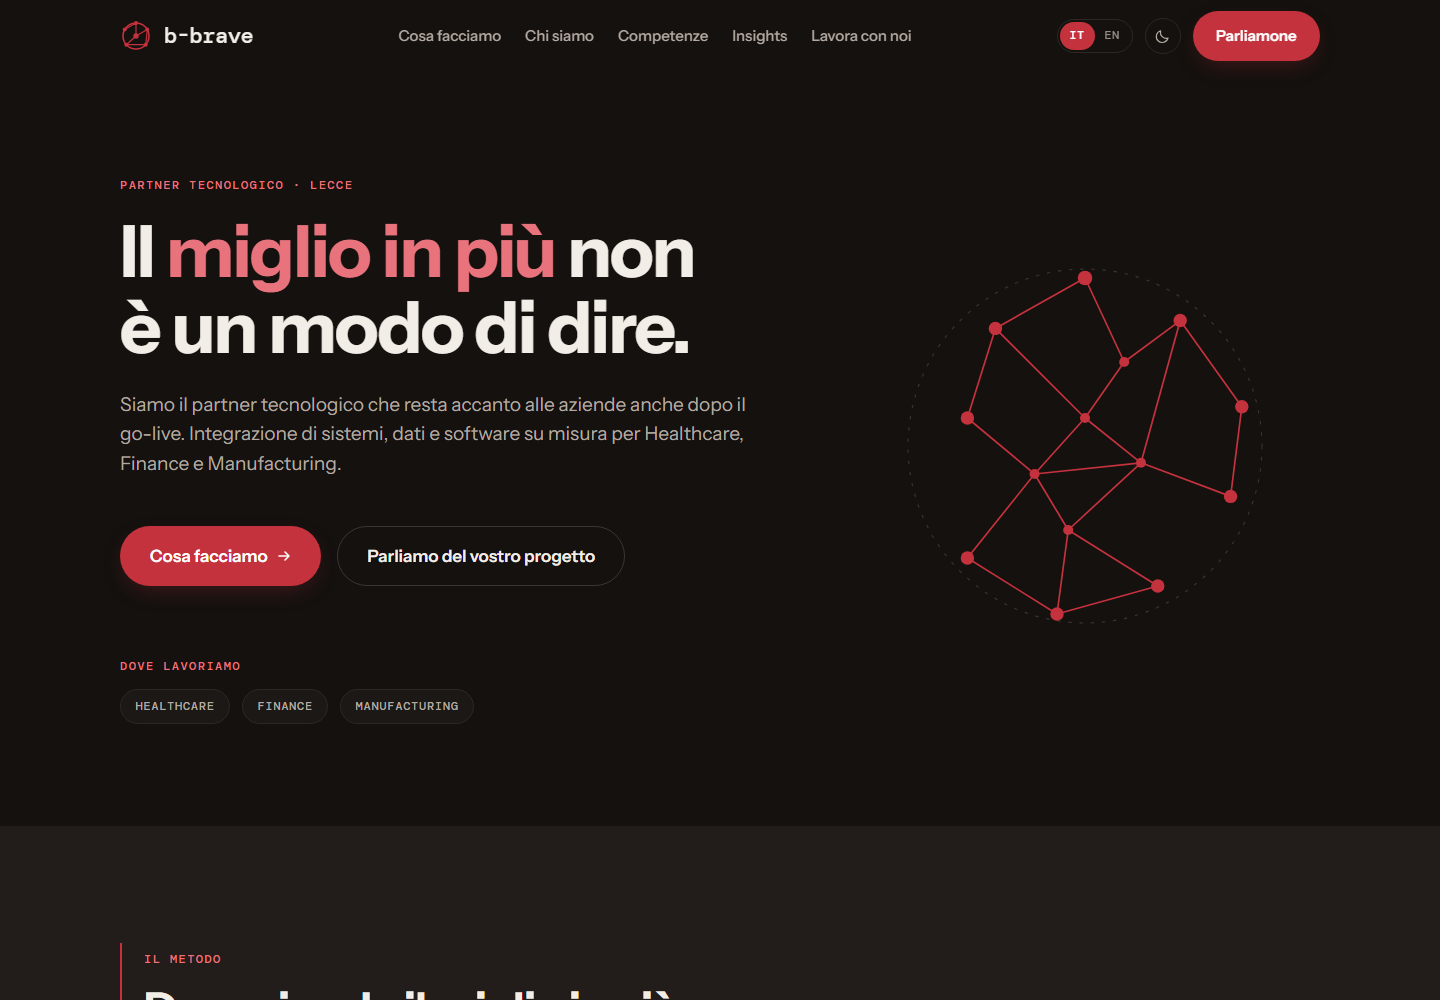
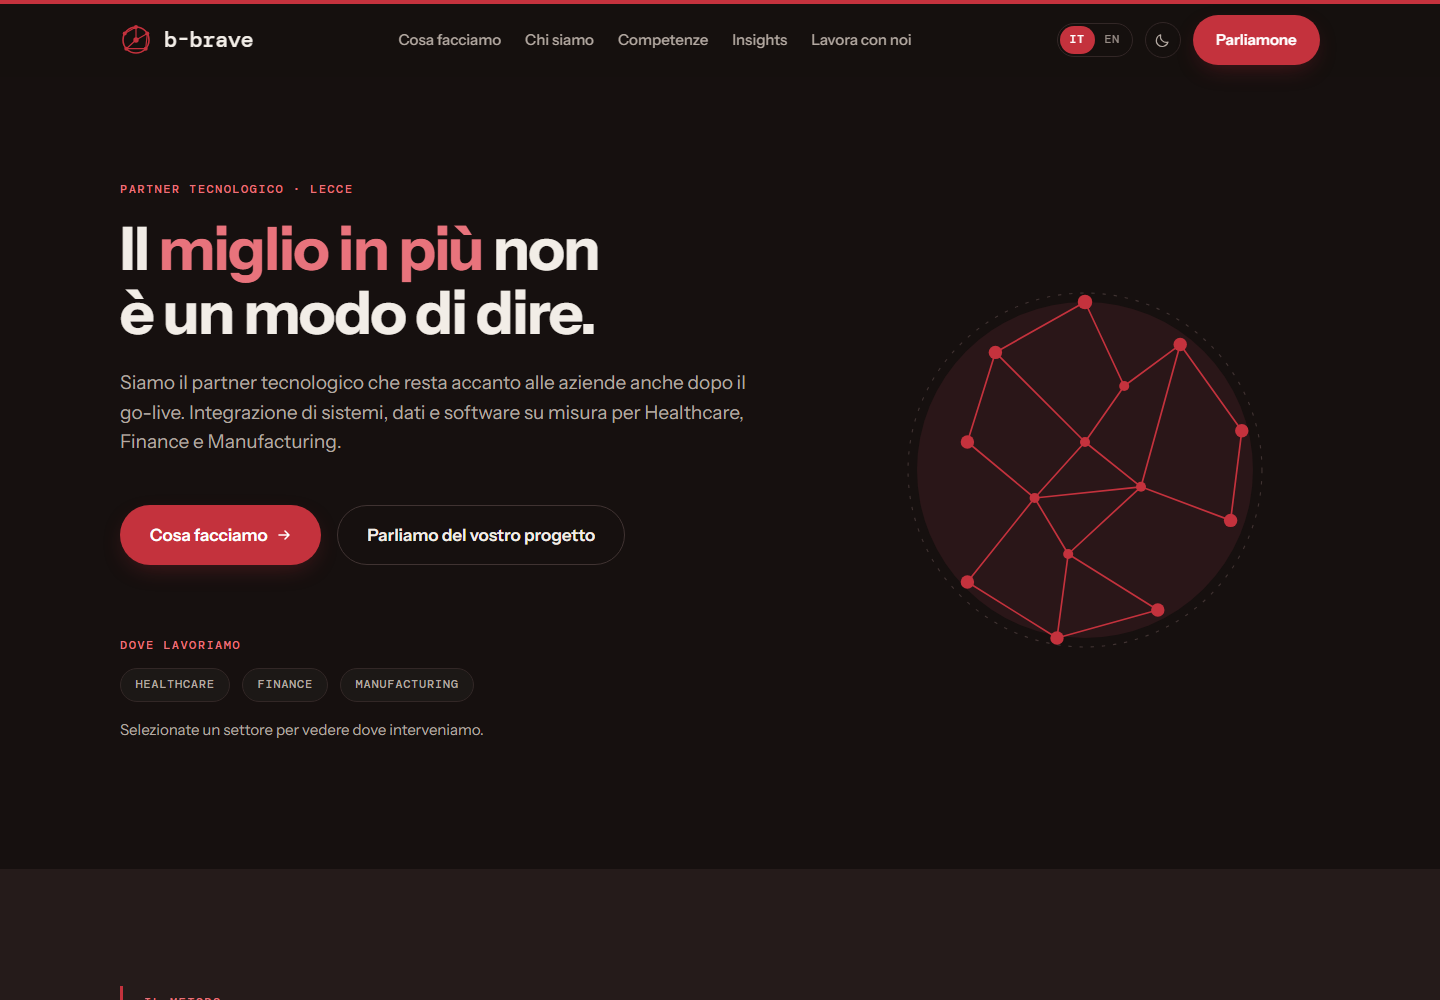
docs: refresh the screenshots and the notes on colour and navigation

diff --git a/README.md b/README.md
@@ -38,7 +38,7 @@ Siete un partner tecnologico che parla con direzioni aziendali di sanità, finan
 
 Tre scelte che tengono insieme il resto:
 
-**Il rosso si usa poco, quindi si vede.** In tutto il sito c'è una sola fascia rossa piena, sulla home. Per il resto il rosso sta sui pulsanti, sulle etichette piccole e su qualche parola chiave. Quando un colore è ovunque smette di significare qualcosa.
+**Il rosso apre e chiude.** Un filetto rosso in cima a ogni pagina, una fascia piena che la chiude, e in mezzo il rosso su pulsanti, etichette, numeri e qualche parola chiave. Anche i fondi chiari sono virati leggermente verso il rosso, invece di restare grigi. Quello che resta fuori sono i blocchi di testo lunghi: se il colore è ovunque smette di significare qualcosa.
 
 **Il vostro marchio è diventato il filo conduttore.** Ho ridisegnato la sfera di nodi del logo in vettoriale, e da quella è nata l'immagine dell'hero: una rete che si disegna al caricamento. Se passi il mouse su Healthcare, Finance o Manufacturing, la rete accende solo il pezzo che riguarda quel settore.
 
@@ -72,7 +72,8 @@ Qualche scelta che vale la pena raccontare:
 - **I font sono dentro il progetto**, non caricati da Google. Oltre a essere più veloce, evita di mandare l'indirizzo IP dei visitatori a un server esterno — che in Italia è un tema di privacy reale.
 - **Zero servizi di terze parti**, quindi zero cookie: non serve nemmeno il banner del consenso.
 - **La mappa dei contatti è disegnata da me**, non è un riquadro di Google Maps. Stesso risultato per chi guarda, senza chiamate esterne. Il link "Apri in Maps" c'è comunque.
-- **Tutto è usabile da tastiera** e con lettore di schermo: link di salto al contenuto, focus sempre visibile, menu mobile che non lascia scappare il cursore. Il contrasto dei testi rispetta le linee guida WCAG AA (il rosso su bianco è 5.4:1; sul fondo scuro uso una tonalità più chiara, altrimenti non passerebbe).
+- **Su telefono il menu non si nasconde dietro un pulsante**: le voci stanno in orizzontale sotto il logo, sempre visibili. Un sito di sette pagine non ha bisogno di un pannello che si apre, e un pannello che si apre è una cosa in più che può sembrare rotta.
+- **Tutto è usabile da tastiera** e con lettore di schermo: link di salto al contenuto, focus sempre visibile, stati annunciati sui filtri e sui moduli. Il contrasto dei testi rispetta le linee guida WCAG AA — ho ricontrollato tutte le coppie dopo aver scaldato i fondi (il rosso su bianco è 5.4:1, il grigio più chiaro che uso è 4.8:1; sul fondo scuro il rosso diventa più chiaro, altrimenti non passerebbe).
 - **Le animazioni si spengono da sole** se nel sistema è attiva l'opzione "riduci animazioni".
 - **Il sito è pubblicato con `noindex`** e un `robots.txt` che blocca tutto: è un concept, non deve finire nei risultati di Google accanto (o al posto) di b-brave.it.
 - Il sito funziona anche **con JavaScript disattivato**: si perdono solo l'interruttore della lingua e il menu a tendina del mobile.
